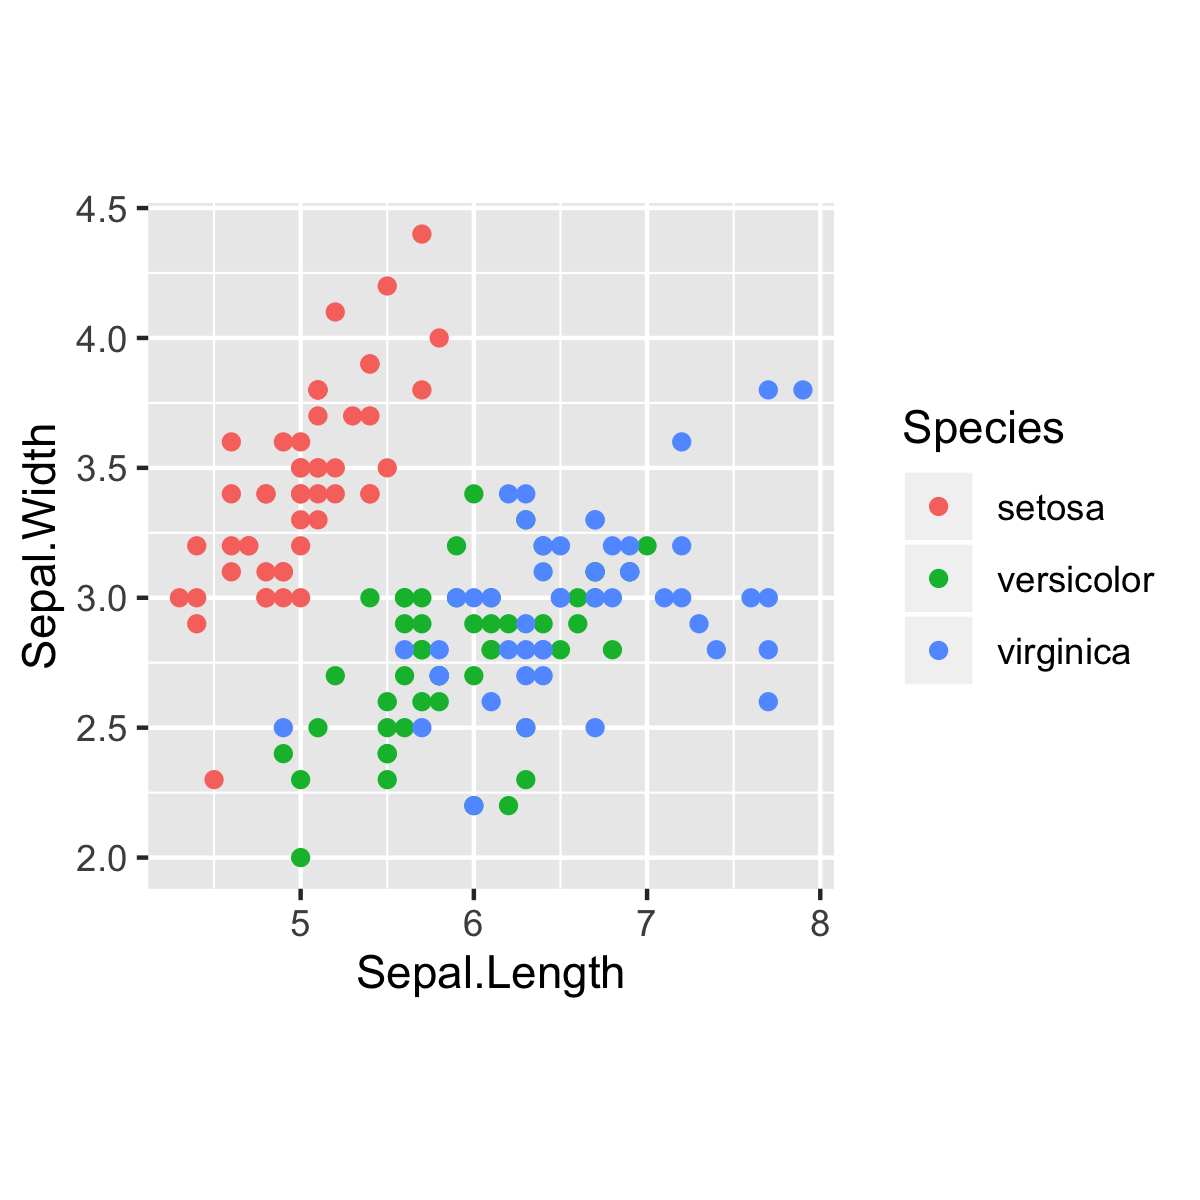
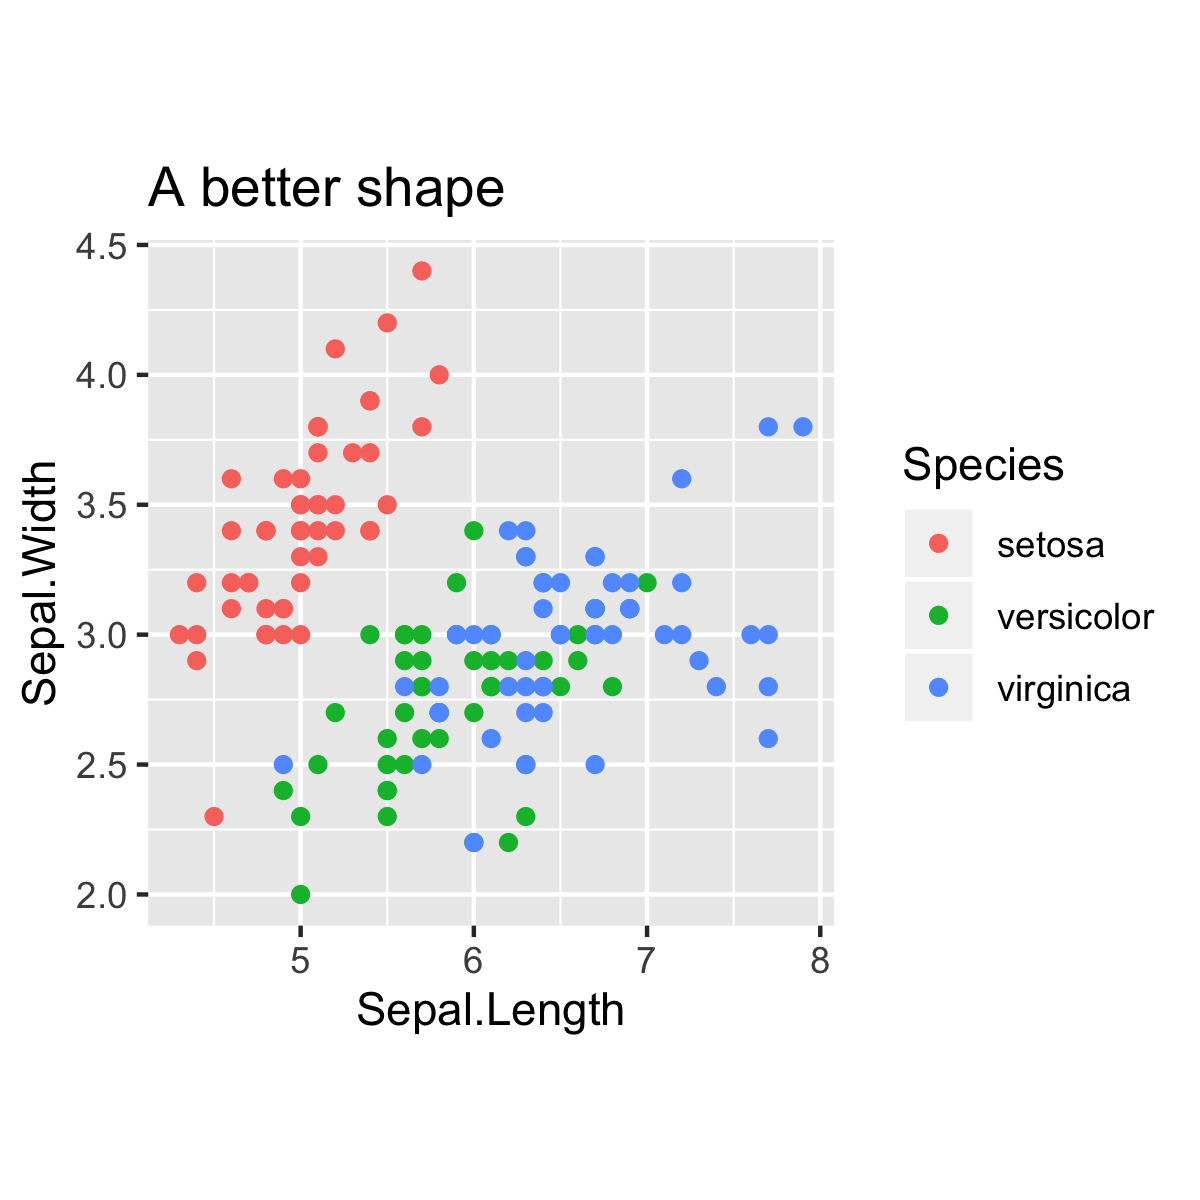
Add lecture 3

diff --git a/public/Drexel_2020/Drexel_2020_Lecture_3.html b/public/Drexel_2020/Drexel_2020_Lecture_3.html
@@ -14,7 +14,7 @@ class: center, middle, inverse, title-slide
 
 # Lecture 3
 ### Jung-Jin Lee
-### Jan 21, 2019
+### Jan 21, 2020
 
 ---
 
@@ -345,8 +345,7 @@ table(f6$Species)
 
 
 ```r
-m1 &lt;- mutate(d, Sepal.Sum = Sepal.Length + Sepal.Width)
-dim(m1)
+m1 &lt;- mutate(d, Sepal.Sum = Sepal.Length + Sepal.Width); dim(m1)
 ```
 
 ```
@@ -354,7 +353,7 @@ dim(m1)
 ```
 
 ```r
-head(m1)
+head(m1, n = 8) # showing 8 rows using "n = 8"
 ```
 
 ```
@@ -365,6 +364,8 @@ head(m1)
 ## 4          4.6         3.1          1.5         0.2  setosa       7.7
 ## 5          5.0         3.6          1.4         0.2  setosa       8.6
 ## 6          5.4         3.9          1.7         0.4  setosa       9.3
+## 7          4.6         3.4          1.4         0.3  setosa       8.0
+## 8          5.0         3.4          1.5         0.2  setosa       8.4
 ```
 
 ---
@@ -654,72 +655,80 @@ At times, _long_ format of data is more convenient to deal with:
 
 ## Wide and long form of data
 
-`gather()` transforms wide format into long format:
+`pivot_longer()` transforms wide format into long format:
 
 
 ```r
 cal_long &lt;- cal_wide %&gt;%
-  gather(key = meal, value = calorie, breakfast, lunch, dinner) %&gt;%
+  pivot_longer(cols = c("breakfast", "lunch", "dinner"), 
+               names_to = "meal", 
+               values_to = "calorie") %&gt;%
   arrange(subject)
-
 head(cal_long)
 ```
 
 ```
-##    subject      meal calorie
+## # A tibble: 6 x 3
+##   subject  meal      calorie
+##   &lt;fct&gt;    &lt;chr&gt;       &lt;dbl&gt;
 ## 1 Patient1 breakfast     300
-## 2 Patient1     lunch     500
-## 3 Patient1    dinner     600
+## 2 Patient1 lunch         500
+## 3 Patient1 dinner        600
 ## 4 Patient2 breakfast     350
-## 5 Patient2     lunch     500
-## 6 Patient2    dinner     650
+## 5 Patient2 lunch         500
+## 6 Patient2 dinner        650
 ```
 
 ---
 
 ## Wide and long form of data
 
-`gather()` can be used in a way excluding column(s) not to be transformed into `key`:
+`pivot_longer()` can be used in a way excluding column(s) not to be transformed:
 
 
 ```r
 cal_long_2 &lt;- cal_wide %&gt;%
-  gather(key = meal, value = calorie, -subject) %&gt;%
+  pivot_longer(cols = -c("subject"), # note the use of -
+               names_to = "meal", 
+               values_to = "calorie") %&gt;%
   arrange(subject)
-
 head(cal_long_2)
 ```
 
 ```
-##    subject      meal calorie
+## # A tibble: 6 x 3
+##   subject  meal      calorie
+##   &lt;fct&gt;    &lt;chr&gt;       &lt;dbl&gt;
 ## 1 Patient1 breakfast     300
-## 2 Patient1     lunch     500
-## 3 Patient1    dinner     600
+## 2 Patient1 lunch         500
+## 3 Patient1 dinner        600
 ## 4 Patient2 breakfast     350
-## 5 Patient2     lunch     500
-## 6 Patient2    dinner     650
+## 5 Patient2 lunch         500
+## 6 Patient2 dinner        650
 ```
 
 ---
 
 ## Wide and long form of data
 
-`spread()` transforms long format to wide format:
+`pivot_wider()` transforms long format to wide format:
 
 
 ```r
 cal_wide_2 &lt;- cal_long %&gt;%
-  spread(key = meal, value = calorie)
+  pivot_wider(names_from = "meal", values_from = "calorie")
 
 head(cal_wide_2)
 ```
 
 ```
-##    subject breakfast dinner lunch
-## 1 Patient1       300    600   500
-## 2 Patient2       350    650   500
-## 3 Patient3       300    450   500
-## 4 Patient4       250    500   450
+## # A tibble: 4 x 4
+##   subject  breakfast lunch dinner
+##   &lt;fct&gt;        &lt;dbl&gt; &lt;dbl&gt;  &lt;dbl&gt;
+## 1 Patient1       300   500    600
+## 2 Patient2       350   500    650
+## 3 Patient3       300   500    450
+## 4 Patient4       250   450    500
 ```
 
 ---
@@ -807,7 +816,8 @@ print(g)
 
 
 ```r
-g2 &lt;- g + theme(aspect.ratio = 1)
+g2 &lt;- g + theme(aspect.ratio = 1) +
+  ggtitle("A better shape") # additional features can be added
 print(g2)
 ```
 

diff --git a/static/Drexel_2020/Drexel_2020_Lecture_3.html b/static/Drexel_2020/Drexel_2020_Lecture_3.html
@@ -14,7 +14,7 @@ class: center, middle, inverse, title-slide
 
 # Lecture 3
 ### Jung-Jin Lee
-### Jan 21, 2019
+### Jan 21, 2020
 
 ---
 
@@ -345,8 +345,7 @@ table(f6$Species)
 
 
 ```r
-m1 &lt;- mutate(d, Sepal.Sum = Sepal.Length + Sepal.Width)
-dim(m1)
+m1 &lt;- mutate(d, Sepal.Sum = Sepal.Length + Sepal.Width); dim(m1)
 ```
 
 ```
@@ -354,7 +353,7 @@ dim(m1)
 ```
 
 ```r
-head(m1)
+head(m1, n = 8) # showing 8 rows using "n = 8"
 ```
 
 ```
@@ -365,6 +364,8 @@ head(m1)
 ## 4          4.6         3.1          1.5         0.2  setosa       7.7
 ## 5          5.0         3.6          1.4         0.2  setosa       8.6
 ## 6          5.4         3.9          1.7         0.4  setosa       9.3
+## 7          4.6         3.4          1.4         0.3  setosa       8.0
+## 8          5.0         3.4          1.5         0.2  setosa       8.4
 ```
 
 ---
@@ -654,72 +655,80 @@ At times, _long_ format of data is more convenient to deal with:
 
 ## Wide and long form of data
 
-`gather()` transforms wide format into long format:
+`pivot_longer()` transforms wide format into long format:
 
 
 ```r
 cal_long &lt;- cal_wide %&gt;%
-  gather(key = meal, value = calorie, breakfast, lunch, dinner) %&gt;%
+  pivot_longer(cols = c("breakfast", "lunch", "dinner"), 
+               names_to = "meal", 
+               values_to = "calorie") %&gt;%
   arrange(subject)
-
 head(cal_long)
 ```
 
 ```
-##    subject      meal calorie
+## # A tibble: 6 x 3
+##   subject  meal      calorie
+##   &lt;fct&gt;    &lt;chr&gt;       &lt;dbl&gt;
 ## 1 Patient1 breakfast     300
-## 2 Patient1     lunch     500
-## 3 Patient1    dinner     600
+## 2 Patient1 lunch         500
+## 3 Patient1 dinner        600
 ## 4 Patient2 breakfast     350
-## 5 Patient2     lunch     500
-## 6 Patient2    dinner     650
+## 5 Patient2 lunch         500
+## 6 Patient2 dinner        650
 ```
 
 ---
 
 ## Wide and long form of data
 
-`gather()` can be used in a way excluding column(s) not to be transformed into `key`:
+`pivot_longer()` can be used in a way excluding column(s) not to be transformed:
 
 
 ```r
 cal_long_2 &lt;- cal_wide %&gt;%
-  gather(key = meal, value = calorie, -subject) %&gt;%
+  pivot_longer(cols = -c("subject"), # note the use of -
+               names_to = "meal", 
+               values_to = "calorie") %&gt;%
   arrange(subject)
-
 head(cal_long_2)
 ```
 
 ```
-##    subject      meal calorie
+## # A tibble: 6 x 3
+##   subject  meal      calorie
+##   &lt;fct&gt;    &lt;chr&gt;       &lt;dbl&gt;
 ## 1 Patient1 breakfast     300
-## 2 Patient1     lunch     500
-## 3 Patient1    dinner     600
+## 2 Patient1 lunch         500
+## 3 Patient1 dinner        600
 ## 4 Patient2 breakfast     350
-## 5 Patient2     lunch     500
-## 6 Patient2    dinner     650
+## 5 Patient2 lunch         500
+## 6 Patient2 dinner        650
 ```
 
 ---
 
 ## Wide and long form of data
 
-`spread()` transforms long format to wide format:
+`pivot_wider()` transforms long format to wide format:
 
 
 ```r
 cal_wide_2 &lt;- cal_long %&gt;%
-  spread(key = meal, value = calorie)
+  pivot_wider(names_from = "meal", values_from = "calorie")
 
 head(cal_wide_2)
 ```
 
 ```
-##    subject breakfast dinner lunch
-## 1 Patient1       300    600   500
-## 2 Patient2       350    650   500
-## 3 Patient3       300    450   500
-## 4 Patient4       250    500   450
+## # A tibble: 4 x 4
+##   subject  breakfast lunch dinner
+##   &lt;fct&gt;        &lt;dbl&gt; &lt;dbl&gt;  &lt;dbl&gt;
+## 1 Patient1       300   500    600
+## 2 Patient2       350   500    650
+## 3 Patient3       300   500    450
+## 4 Patient4       250   450    500
 ```
 
 ---
@@ -807,7 +816,8 @@ print(g)
 
 
 ```r
-g2 &lt;- g + theme(aspect.ratio = 1)
+g2 &lt;- g + theme(aspect.ratio = 1) +
+  ggtitle("A better shape") # additional features can be added
 print(g2)
 ```
 

diff --git a/public/Drexel_2020/Drexel_2020_Lecture_2.html b/public/Drexel_2020/Drexel_2020_Lecture_2.html
@@ -52,14 +52,14 @@ head(df)
 
 ```
 ## # A tibble: 6 x 10
-##   carat cut       color clarity depth table price     x     y     z
-##   &lt;dbl&gt; &lt;ord&gt;     &lt;ord&gt; &lt;ord&gt;   &lt;dbl&gt; &lt;dbl&gt; &lt;int&gt; &lt;dbl&gt; &lt;dbl&gt; &lt;dbl&gt;
-## 1 0.23  Ideal     E     SI2      61.5    55   326  3.95  3.98  2.43
-## 2 0.21  Premium   E     SI1      59.8    61   326  3.89  3.84  2.31
-## 3 0.23  Good      E     VS1      56.9    65   327  4.05  4.07  2.31
-## 4 0.290 Premium   I     VS2      62.4    58   334  4.2   4.23  2.63
-## 5 0.31  Good      J     SI2      63.3    58   335  4.34  4.35  2.75
-## 6 0.24  Very Good J     VVS2     62.8    57   336  3.94  3.96  2.48
+##   carat cut     color clarity depth table price     x     y     z
+##   &lt;dbl&gt; &lt;ord&gt;   &lt;ord&gt; &lt;ord&gt;   &lt;dbl&gt; &lt;dbl&gt; &lt;int&gt; &lt;dbl&gt; &lt;dbl&gt; &lt;dbl&gt;
+## 1 0.23  Ideal   E     SI2      61.5    55   326  3.95  3.98  2.43
+## 2 0.21  Premium E     SI1      59.8    61   326  3.89  3.84  2.31
+## 3 0.23  Good    E     VS1      56.9    65   327  4.05  4.07  2.31
+## 4 0.290 Premium I     VS2      62.4    58   334  4.2   4.23  2.63
+## 5 0.31  Good    J     SI2      63.3    58   335  4.34  4.35  2.75
+## 6 0.24  Very G… J     VVS2     62.8    57   336  3.94  3.96  2.48
 ```
 
 ---
@@ -72,7 +72,17 @@ names(df)
 ```
 
 ```
-##  [1] "carat"   "cut"     "color"   "clarity" "depth"   "table"   "price"   "x"       "y"       "z"
+##  [1] "carat"   "cut"     "color"   "clarity" "depth"   "table"  
+##  [7] "price"   "x"       "y"       "z"
+```
+
+```r
+letters[1:26] 
+```
+
+```
+##  [1] "a" "b" "c" "d" "e" "f" "g" "h" "i" "j" "k" "l" "m" "n" "o"
+## [16] "p" "q" "r" "s" "t" "u" "v" "w" "x" "y" "z"
 ```
 
 ---

diff --git a/public/2020/01/04/drexel-lectures-spring-2020/index.html b/public/2020/01/04/drexel-lectures-spring-2020/index.html
@@ -66,6 +66,7 @@
 <p><a href="/Drexel_2020/Drexel_2020_Lecture_1.html">Lecture 1</a></p>
 <p><a href="/Drexel_2020/Drexel_2020_Lecture_2.html">Lecture 2</a></p>
 <p><a href="/Drexel_2020/HW1.pdf">Homework 1</a></p>
+<p><a href="/Drexel_2020/Drexel_2020_Lecture_3.html">Lecture 3</a></p>
 
     </div>
   </article>

diff --git a/content/post/2020-01-04-drexel-lectures-spring-2020.html b/content/post/2020-01-04-drexel-lectures-spring-2020.html
@@ -12,3 +12,4 @@ tags: []
 <p><a href="/Drexel_2020/Drexel_2020_Lecture_1.html">Lecture 1</a></p>
 <p><a href="/Drexel_2020/Drexel_2020_Lecture_2.html">Lecture 2</a></p>
 <p><a href="/Drexel_2020/HW1.pdf">Homework 1</a></p>
+<p><a href="/Drexel_2020/Drexel_2020_Lecture_3.html">Lecture 3</a></p>
